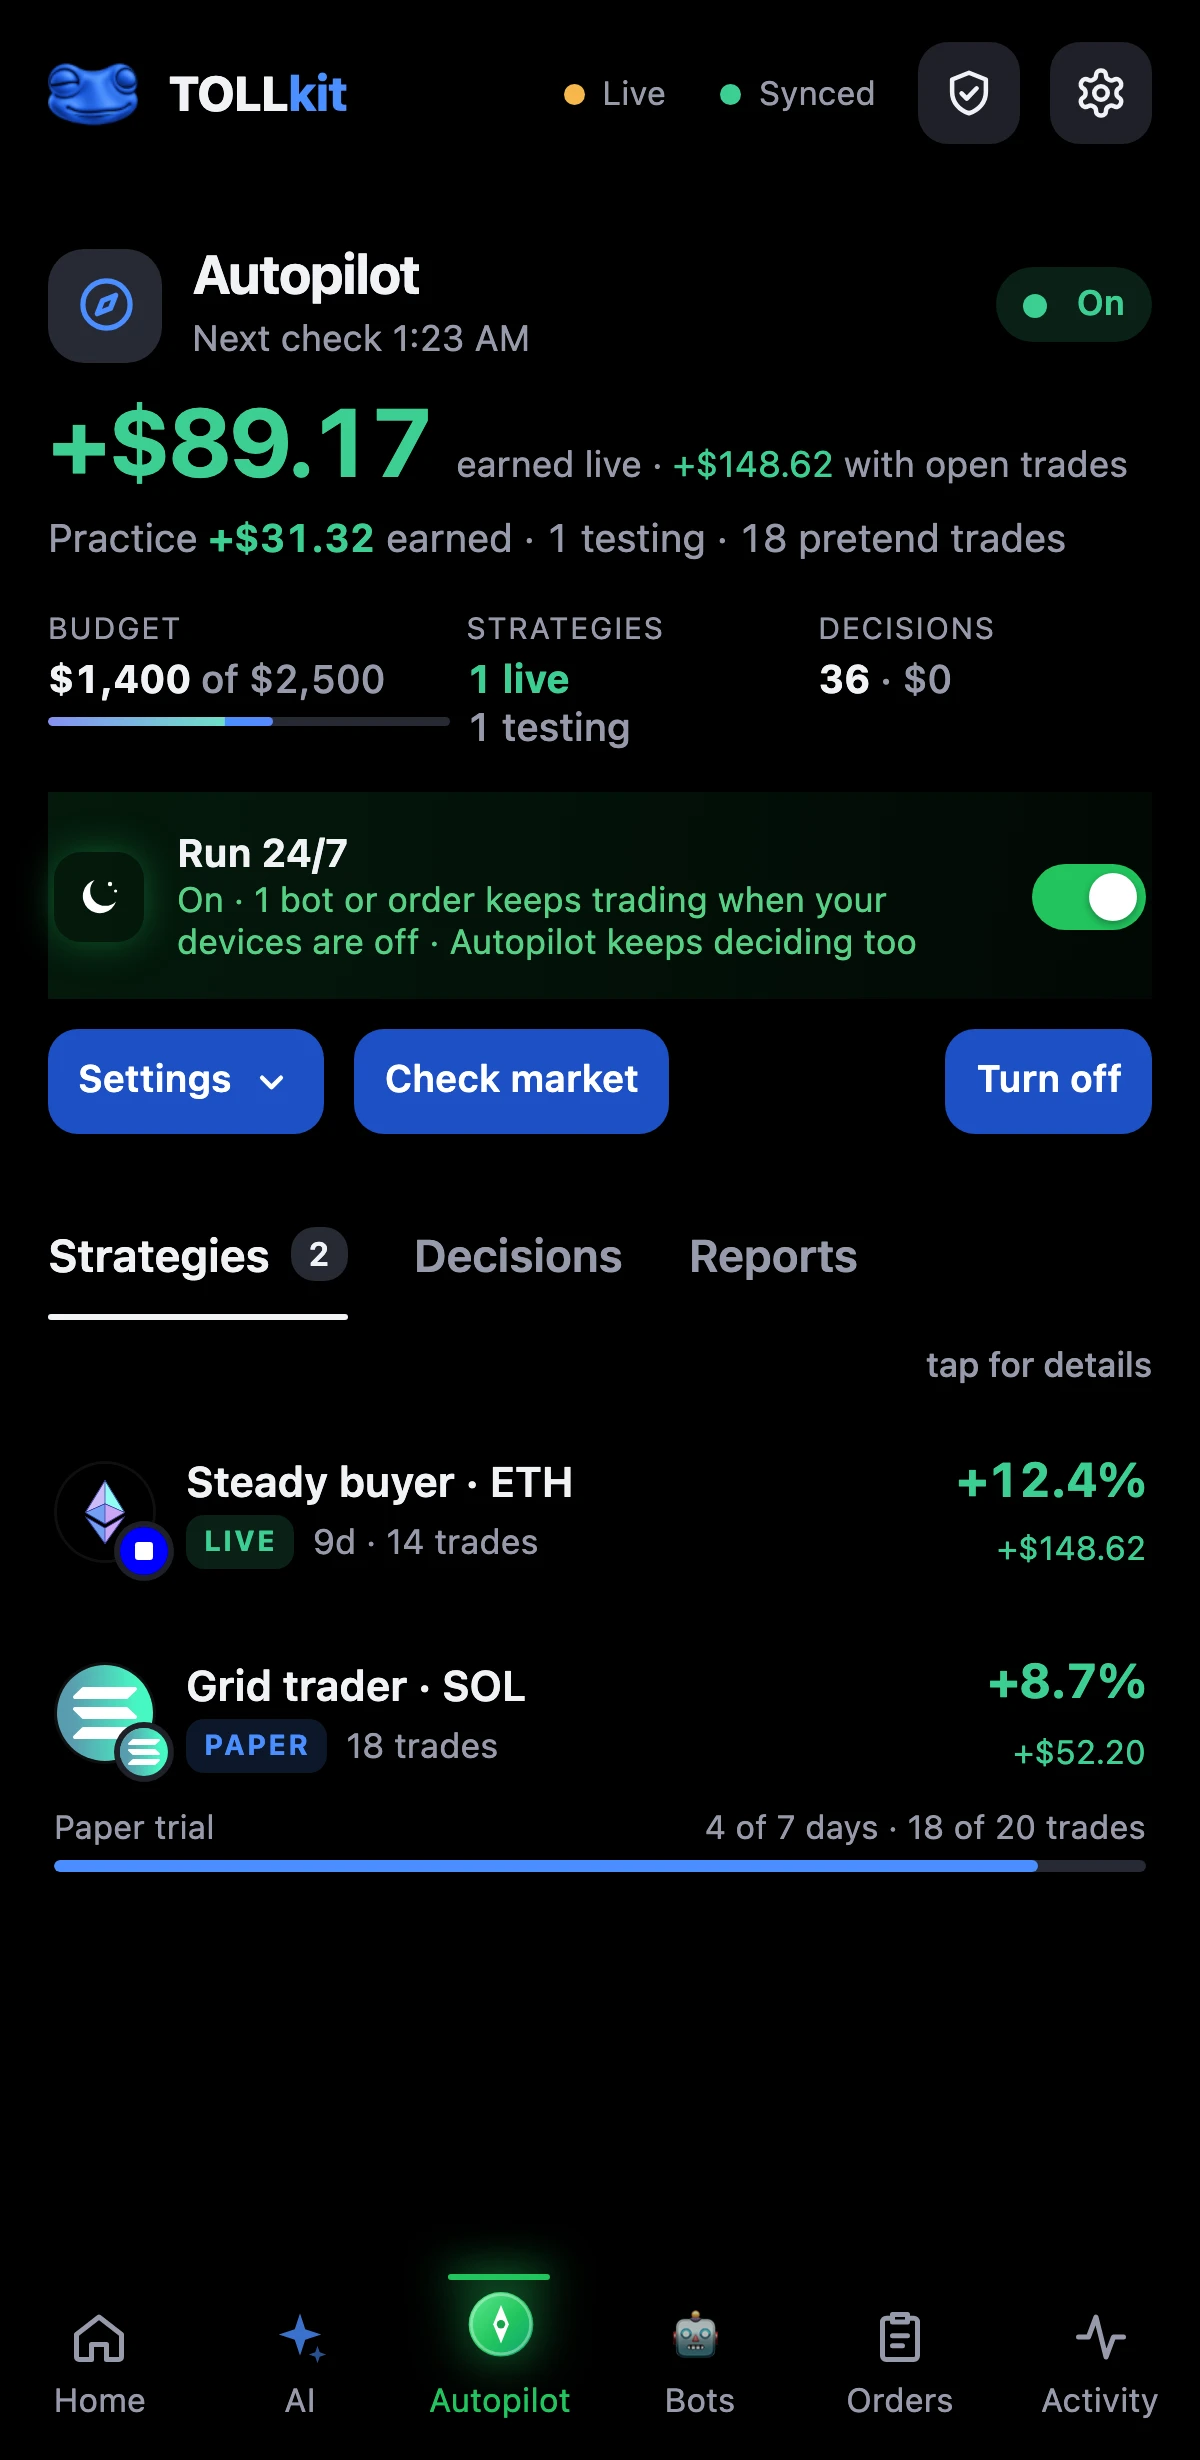
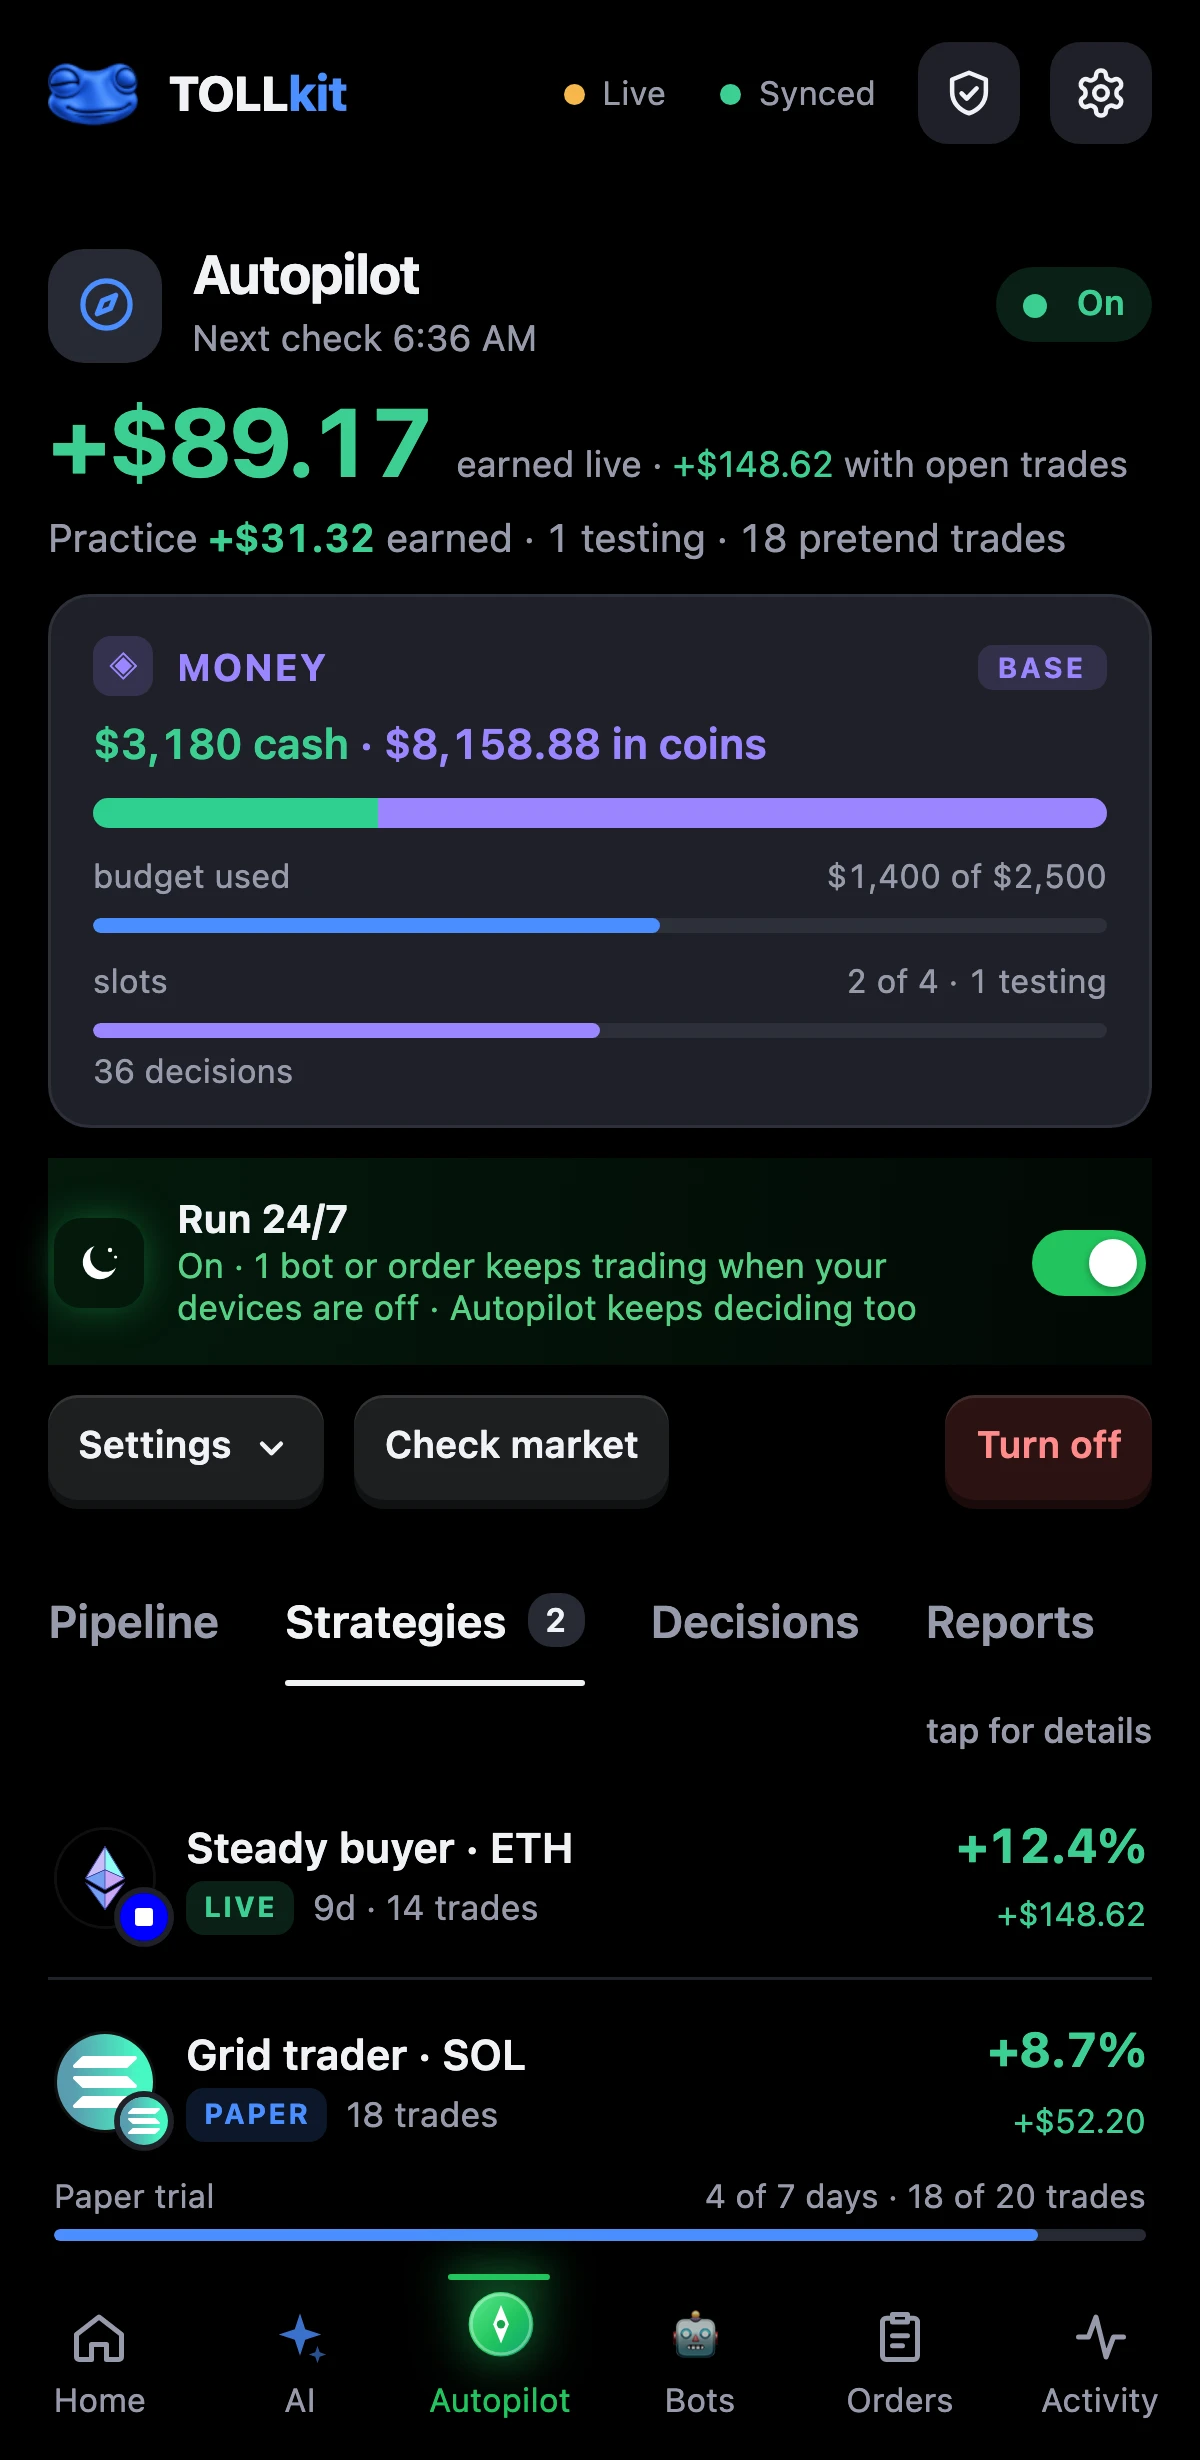
Wallet page: new app screenshots; trade sizing, Pipeline, away summary, cash check, exact trades from the AI

Changed region(s): [[0.0308, 0.2163, 0.9867, 0.9268], [0.5242, 0.6488, 0.7092, 0.6797], [0.3392, 0.1236, 0.4625, 0.1545]]

diff --git a/wallet.html b/wallet.html
@@ -129,6 +129,8 @@
       <li>Goes live only after it beat holding USDC after fees for the paper period you set. A live strategy that's losing goes back to paper.</li>
       <li>Every decision is logged with its reasons and the signals behind it. Tap one to read them.</li>
       <li>You set the budget, a cap per trade, a cap per token, and daily and weekly loss stops that pause everything. One switch turns it all off.</li>
+      <li>Trade sizes come from the cash that's actually free. Pick Same size, or Add profits so each trade grows with what it made.</li>
+      <li>The Pipeline tab shows each stage as it runs, and a short list sums up what happened while you were away.</li>
       <li>Decides with your own AI key, only when the market moved. No TOLLkit fee.</li>
       <li>Pace is Adaptive by default: busier while a coin is quiet, no new buys while it's falling.</li>
       <li>Steer it from the AI chat: it sees every decision, keeps your standing notes ("be careful this week"), and hands Autopilot new strategies or settings for you to approve. Only Autopilot acts on its own.</li>
@@ -164,6 +166,7 @@
       <li>Each bot shows its trades, failures and result, on a price chart that marks where it buys and sells.</li>
       <li>Before a bot starts, drag its lines on the chart to set it up, and replay it over the last 30 days of prices.</li>
       <li>Bots check prices every 15 seconds while the wallet is open.</li>
+      <li>Short on USDC, a bot waits and says so, then buys once the cash is there, instead of failing the trade.</li>
       <li>See how bots do for other people on the <a href="/bots">bot board</a>.</li>
     </ul>
   </div>
@@ -174,7 +177,7 @@
   <div class="text">
     <div class="kicker">Connect your AI</div>
     <h2>Your AI sets it up. You decide.</h2>
-    <p>Claude reads your balances and recent prices and sets up the swap, rule or bot you describe. It doesn't pick coins or prices for you, and nothing turns on until you tap it. In the wallet's chat it also sees everything Autopilot does and can ask Autopilot to run a strategy or change a setting, which you approve. Connected AI apps work inside the same limits, can't withdraw, and never see your keys.</p>
+    <p>Claude reads your balances and recent prices and sets up the swap, rule or bot you describe. Name a trade, like "$100 of SOL, buy low and sell high," and it sets up exactly that, with the size options laid out. It doesn't pick coins or prices for you, and nothing turns on until you tap it. In the wallet's chat it also sees everything Autopilot does and can ask Autopilot to run a strategy or change a setting, which you approve. Connected AI apps work inside the same limits, can't withdraw, and never see your keys.</p>
     <ul>
       <li>Chat in the wallet with your own key from Claude, ChatGPT or OpenRouter, using any model it offers. Your AI company bills you directly.</li>
       <li>One tap copies your private address and opens Claude's connectors page. Paste it and click Add.</li>
